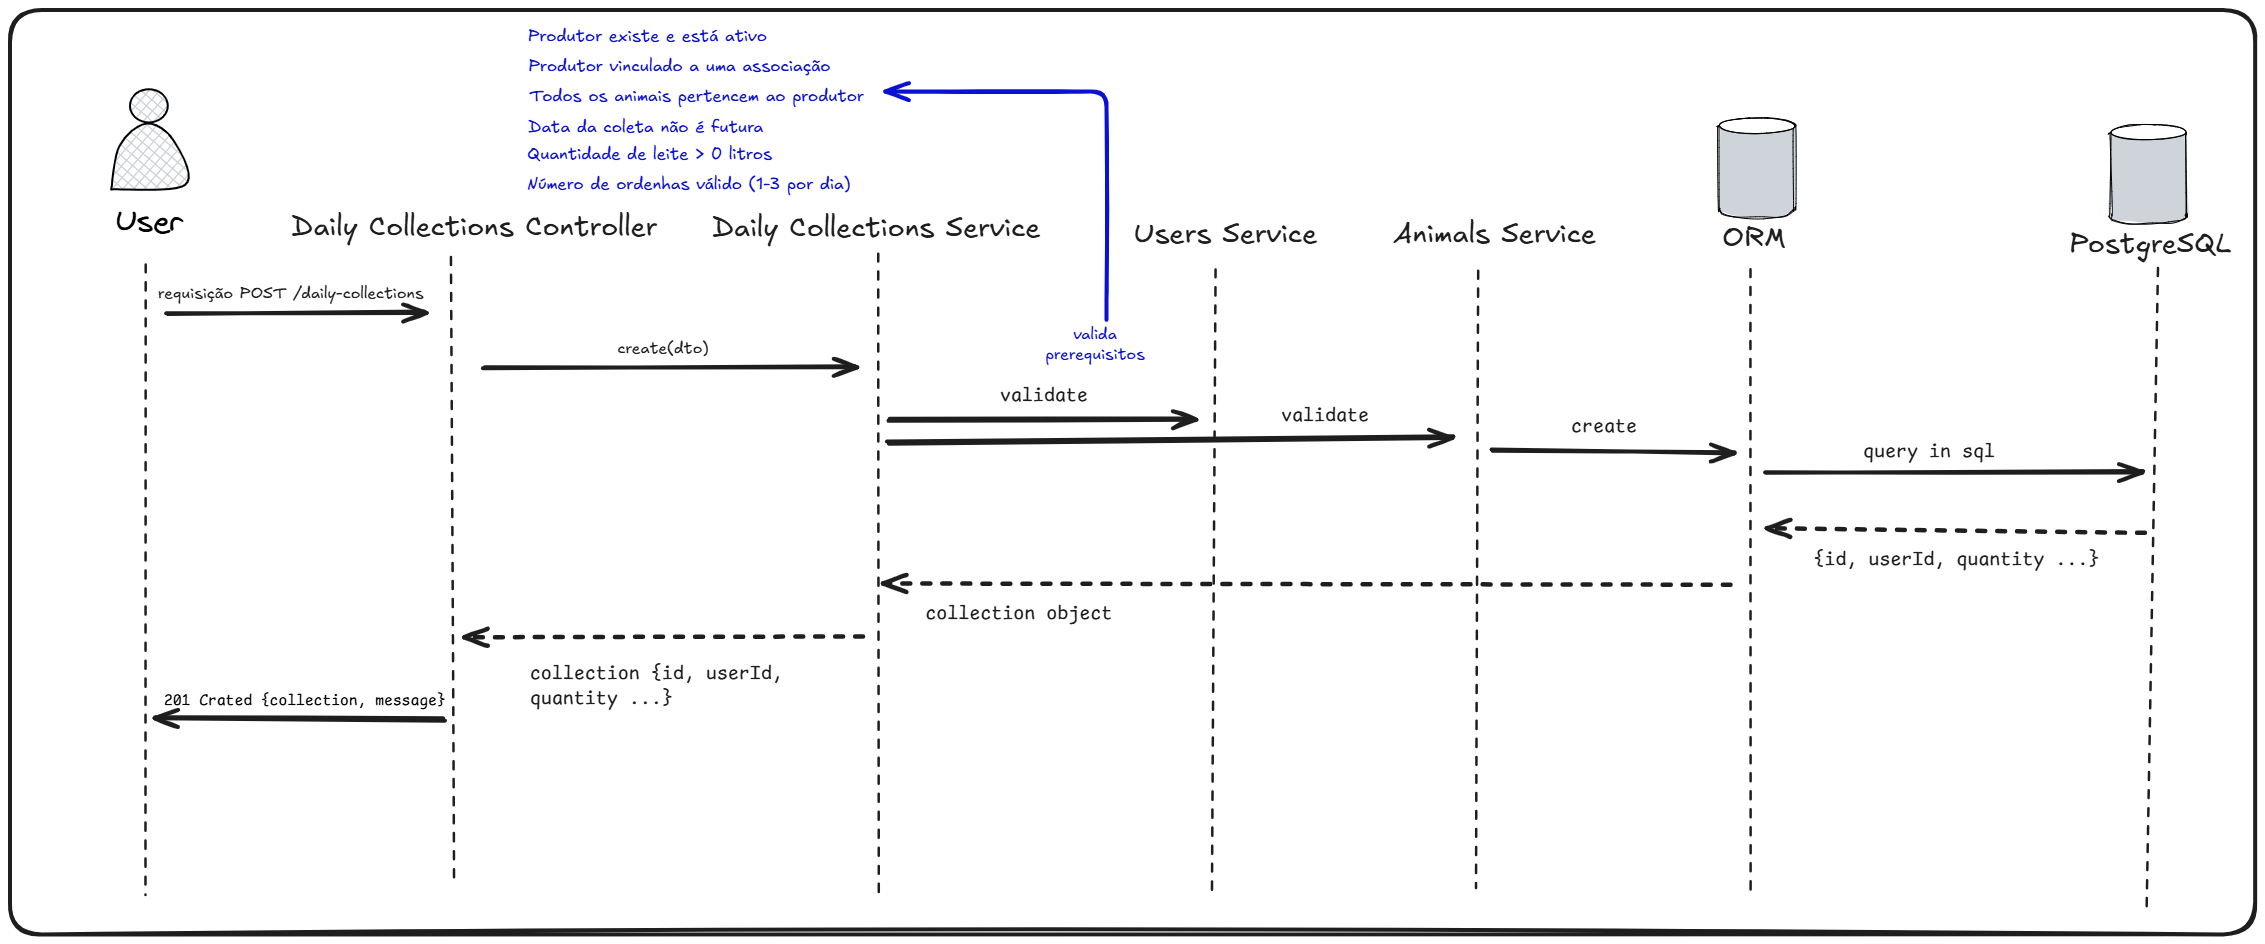
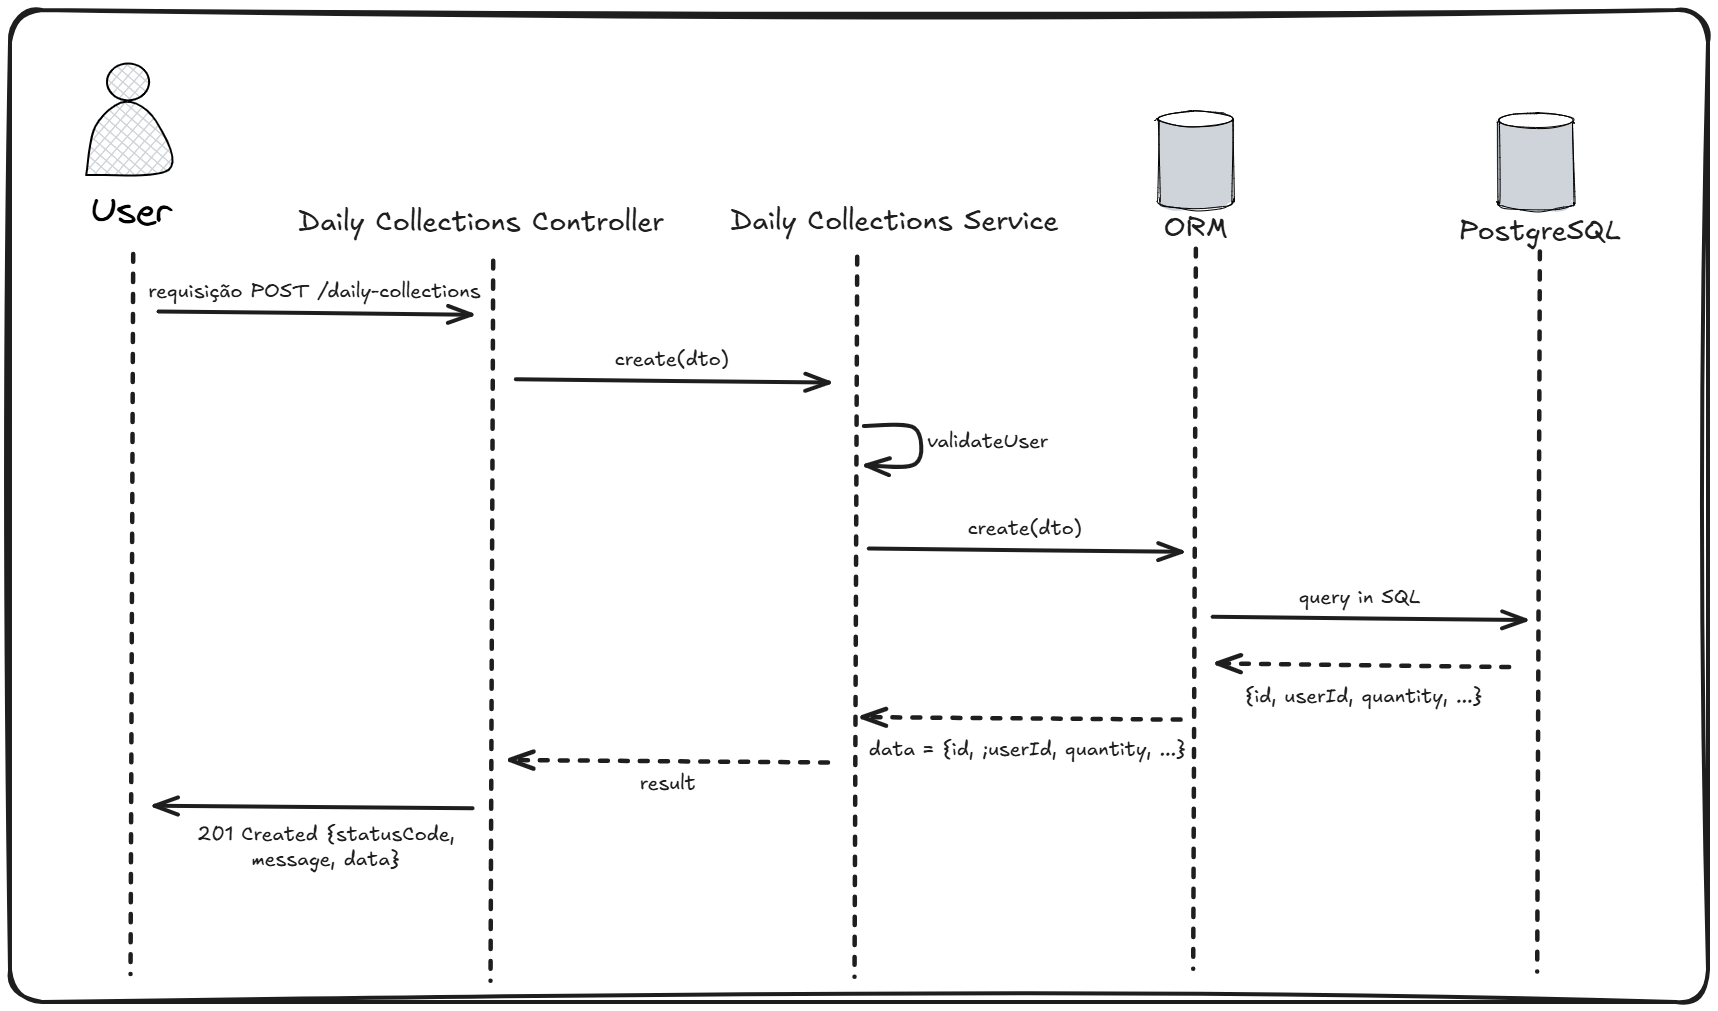
fix: atualização na cobertura de teste e remoção de metadata em auth.service

diff --git a/backend/tests/unit/application/services/auth.service.spec.ts b/backend/tests/unit/application/services/auth.service.spec.ts
@@ -270,77 +270,6 @@ describe('AuthService', () => {
       expect(diff).toBeGreaterThanOrEqual(14 * 60 * 1000); // At least 14 minutes
       expect(diff).toBeLessThanOrEqual(16 * 60 * 1000); // At most 16 minutes
     });
-
-    it('should include basic request metadata (IP) when request is provided', async () => {
-      const mockUser = createUser({ email: '[email redacted]' });
-      const mockRequest = {
-        headers: { 'user-agent': 'Mozilla/5.0 (Windows NT 10.0) Chrome/91.0' },
-        ip: '192.168.1.1',
-      };
-
-      prismaService.user.findUnique.mockResolvedValue(mockUser);
-      prismaService.user.update.mockResolvedValue(mockUser);
-      mailService.sendResetPasswordEmail.mockResolvedValue(undefined);
-
-      await service.forgotPassword('[email redacted]', mockRequest);
-
-      expect(mailService.sendResetPasswordEmail).toHaveBeenCalledWith(
-        '[email redacted]',
-        expect.any(String),
-        expect.any(String),
-        expect.objectContaining({
-          device: 'Não disponível', // Removido parse
-          browser: 'Não disponível', // Removido parse
-          ipAddress: '192.168.1.1', // Mantido
-        }),
-      );
-    });
-
-    // REMOVIDOS: Todos os testes "should detect..." (Windows, Linux, iOS, etc)
-
-    it('should extract IP from request.connection.remoteAddress if request.ip not available', async () => {
-      const mockUser = createUser({ email: '[email redacted]' });
-      const mockRequest = {
-        headers: { 'user-agent': 'Mozilla/5.0' },
-        connection: { remoteAddress: '10.0.0.5' },
-      };
-
-      prismaService.user.findUnique.mockResolvedValue(mockUser);
-      prismaService.user.update.mockResolvedValue(mockUser);
-      mailService.sendResetPasswordEmail.mockResolvedValue(undefined);
-
-      await service.forgotPassword('[email redacted]', mockRequest as any);
-
-      expect(mailService.sendResetPasswordEmail).toHaveBeenCalledWith(
-        expect.any(String),
-        expect.any(String),
-        expect.any(String),
-        expect.objectContaining({
-          ipAddress: '10.0.0.5',
-        }),
-      );
-    });
-
-    it('should use default metadata when request is not provided', async () => {
-      const mockUser = createUser({ email: '[email redacted]' });
-
-      prismaService.user.findUnique.mockResolvedValue(mockUser);
-      prismaService.user.update.mockResolvedValue(mockUser);
-      mailService.sendResetPasswordEmail.mockResolvedValue(undefined);
-
-      await service.forgotPassword('[email redacted]');
-
-      expect(mailService.sendResetPasswordEmail).toHaveBeenCalledWith(
-        expect.any(String),
-        expect.any(String),
-        expect.any(String),
-        expect.objectContaining({
-          device: 'Não disponível',
-          browser: 'Não disponível',
-          ipAddress: 'Não disponível',
-        }),
-      );
-    });
   });
 
   describe('validateResetToken', () => {

diff --git a/backend/src/auth/auth.service.ts b/backend/src/auth/auth.service.ts
@@ -83,25 +83,11 @@ export class AuthService {
         },
       });
 
-      const metadata = {
-        expiryDate: resetTokenExpiry,
-        device: 'Não disponível',
-        browser: 'Não disponível',
-        ipAddress: 'Não disponível',
-      };
-
-      // Apenas extrai o IP se o request existir, sem parsing complexo de User-Agent
-      if (request) {
-        const ip =
-          request.ip || request.connection.remoteAddress || 'Não disponível';
-        metadata.ipAddress = ip;
-      }
-
       await this.mailService.sendResetPasswordEmail(
         user.email,
         resetToken,
         user.name,
-        metadata,
+        { expiryDate: resetTokenExpiry },
       );
 
       this.logger.log(`Token de reset enviado para ${user.email}`);

diff --git a/arc42-PT.md b/arc42-PT.md
@@ -145,10 +145,10 @@ O **QuaLeiDer** é uma plataforma web para gestão de produtores de leite e suas
 
 - **Cobertura de Testes (Atual: 96.25%):**
 
-  - **Testes Unitários:** 472 testes cobrindo DTOs, Services, Controllers, Entities
+  - **Testes Unitários:** 450 testes cobrindo DTOs, Services, Controllers, Entities
     - DTOs: 100% de cobertura (validação de dados de entrada)
-    - Services (Application): 95%+ de cobertura (lógica de negócio)
-    - Controllers (Presentation): 97% de cobertura (endpoints HTTP)
+    - Services (Application): 100% de cobertura (lógica de negócio)
+    - Controllers (Presentation): 100% de cobertura (endpoints HTTP)
     - Entities (Domain): 100% de cobertura (regras de negócio)
   - **Testes E2E:** 110 testes integrando backend completo (API + Database)
     - 7 suítes de testes: Auth (24), Users (18), Animals (16), Daily Collections (14), Invites (17), Associations (21)
@@ -419,6 +419,7 @@ Content-Type: application/json
 - `401 Unauthorized`: Token JWT inválido/expirado
 - `403 Forbidden`: Usuário sem permissão
 - `404 Not Found`: Recurso inexistente
+- `409 Conflit`: Conflito
 - `500 Internal Server Error`: Erro não tratado
 
 ---
@@ -585,7 +586,6 @@ A arquitetura do QuaLeiDer foi projetada para balancear **simplicidade** (time p
 | ---------------- | ------------------------------------ | ----------------------------------------------------- |
 | **Equipe**       | 1-2 desenvolvedores conseguem manter | Exige time de 5+ pessoas                              |
 | **Complexidade** | Deploy único, logs centralizados     | Requer orquestração (Kubernetes), tracing distribuído |
-| **Custo**        | 1 container ($5/mês no Render)       | Mínimo 3 serviços ($15/mês)                           |
 | **Latência**     | Chamadas de função (nanossegundos)   | Chamadas HTTP entre serviços (milissegundos)          |
 | **Transações**   | ACID nativo do PostgreSQL            | Saga Pattern ou 2PC (complexo)                        |
 
@@ -1064,188 +1064,24 @@ O token é validado automaticamente pelo `JwtAuthGuard` em endpoints protegidos 
 ![Registro de Coleta Diária](images/daily-collection-flow.png)
 
 ### Descrição do Fluxo
-
-Este diagrama ilustra o processo completo de registro de uma coleta diária de leite, incluindo todas as validações de negócio necessárias antes da persistência.
+Este documento descreve o processo técnico de registro de uma coleta diária de leite
 
 **Atores e Componentes:**
 
 - **User (Produtor)**: Produtor de leite registrando a coleta diária
 - **DailyCollectionsController**: Camada de apresentação (HTTP)
 - **DailyCollectionsService**: Camada de aplicação com lógica de negócio e validações
-- **UsersService**: Serviço de validação de produtores
-- **AnimalsService**: Serviço de validação de animais
 - **ORM (Prisma)**: Camada de acesso a dados (PostgreSQL)
 - **PostgreSQL**: Banco de dados relacional
 
 **Etapas do Fluxo:**
 
 1. **Requisição HTTP**: Produtor envia `POST /daily-collections` com dados da coleta
-2. **Validações de Pré-requisitos** (6 validações executadas):
-   - ✓ **Produtor existe e está ativo** (consulta UsersService)
-   - ✓ **Produtor vinculado a uma associação** (valida `associationId`)
-   - ✓ **Animais pertencem ao produtor** (consulta AnimalsService)
-   - ✓ **Data da coleta não é futura** (validação de negócio)
-   - ✓ **Quantidade de leite > 0 litros** (validação de negócio)
-   - ✓ **Número de ordenhas válido** (1-3 por dia)
-3. **Criação Atômica**: Transação que cria registro de coleta + relacionamentos N-to-N com animais
-4. **Persistência**: 2 operações SQL executadas em transação:
+2. **Validações de Pré-requisitos**:
+   - ✓ **Produtor existe e está ativo** 
+3. **Persistência**: 2 operações SQL executadas em transação:
    - `INSERT INTO "DailyCollection"` (coleta principal)
-   - `INSERT INTO "_AnimalToDailyCollection"` (relacionamento Many-to-Many)
-5. **Resposta HTTP**: Retorna `201 Created` com dados da coleta e lista de animais
-
-### Validações de Negócio
-
-**Validações Executadas (DailyCollectionsService):**
-
-```
-┌─────────────────────────────────────────────┐
-│ VALIDAÇÕES DE PRÉ-REQUISITOS (6 checks)    │
-├─────────────────────────────────────────────┤
-│ 1. ✓ Produtor existe e está ativo          │
-│ 2. ✓ Produtor vinculado a uma associação   │
-│ 3. ✓ Todos animais pertencem ao produtor   │
-│ 4. ✓ Data da coleta não é futura           │
-│ 5. ✓ Quantidade de leite > 0 litros        │
-│ 6. ✓ Número de ordenhas válido (1-3/dia)   │
-└─────────────────────────────────────────────┘
-```
-
-**Código de Validação:**
-
-```typescript
-// DailyCollectionsService.create()
-
-const user = await this.usersService.findById(dto.userId);
-if (!user) {
-  throw new NotFoundException("Produtor não encontrado");
-}
-
-if (!user.associationId) {
-  throw new BadRequestException(
-    "Produtor deve estar vinculado a uma associação"
-  );
-}
-
-const animals = await this.animalsService.findMany({
-  where: {
-    id: { in: dto.animalIds },
-    userId: dto.userId,
-  },
-});
-
-if (animals.length !== dto.animalIds.length) {
-  throw new BadRequestException(
-    "Alguns animais não pertencem ao produtor ou não existem"
-  );
-}
-
-if (new Date(dto.date) > new Date()) {
-  throw new BadRequestException("Data não pode ser futura");
-}
-
-if (dto.quantity <= 0) {
-  throw new BadRequestException("Quantidade deve ser maior que zero");
-}
-
-if (dto.milkingCount < 1 || dto.milkingCount > 3) {
-  throw new BadRequestException("Número de ordenhas deve ser entre 1 e 3");
-}
-```
-
-### Relacionamento Many-to-Many
-
-**Tabela de Junção:**
-
-O sistema utiliza relacionamento Many-to-Many entre `Animal` e `DailyCollection`, permitindo rastrear quais animais contribuíram para cada coleta:
-
-```sql
-CREATE TABLE "_AnimalToDailyCollection" (
-  "A" INTEGER NOT NULL REFERENCES "Animal"("id"),
-  "B" INTEGER NOT NULL REFERENCES "DailyCollection"("id"),
-  PRIMARY KEY ("A", "B")
-);
-```
-
-**Criação Atômica:**
-
-```typescript
-const collection = await this.prisma.dailyCollection.create({
-  data: {
-    userId: dto.userId,
-    date: dto.date,
-    quantity: dto.quantity,
-    milkingCount: dto.milkingCount,
-    hasTechnicalAssistance: dto.hasTechnicalAssistance,
-    feed: dto.feed,
-    milkingLocation: dto.milkingLocation,
-    animals: {
-      connect: dto.animalIds.map((id) => ({ id })),
-    },
-  },
-  include: {
-    animals: true,
-  },
-});
-```
-
-### Dados Técnicos Coletados
-
-| Campo                      | Tipo    | Descrição                                      | Exemplo           |
-| -------------------------- | ------- | ---------------------------------------------- | ----------------- |
-| **quantity**               | Float   | Quantidade de leite em litros                  | 45.5              |
-| **milkingCount**           | Integer | Número de ordenhas realizadas (1-3)            | 2                 |
-| **hasTechnicalAssistance** | Boolean | Se recebeu assistência técnica                 | true              |
-| **feed**                   | String  | Tipo de alimentação fornecida                  | "Silagem + Ração" |
-| **milkingLocation**        | String  | Local onde a ordenha foi realizada             | "Sala de Ordenha" |
-| **date**                   | Date    | Data da coleta (não pode ser futura)           | "2025-11-16"      |
-| **animals**                | Array   | IDs dos animais que contribuíram para a coleta | [1, 2, 3]         |
-
-### Cenários de Erro
-
-**1. Produtor Não Encontrado:**
-
-```
-POST /daily-collections {userId: 999, ...}
-→ UsersService.findById(999) retorna null
-→ throw NotFoundException("Produtor não encontrado")
-→ Response: 404 Not Found
-```
-
-**2. Produtor Sem Associação:**
-
-```
-POST /daily-collections {userId: 1, ...}
-→ user.associationId === null
-→ throw BadRequestException("Produtor deve estar vinculado a uma associação")
-→ Response: 400 Bad Request
-```
-
-**3. Animais Não Pertencem ao Produtor:**
-
-```
-POST /daily-collections {userId: 1, animalIds: [1, 2, 999], ...}
-→ AnimalsService retorna apenas 2 animais (esperado: 3)
-→ throw BadRequestException("Alguns animais não pertencem ao produtor")
-→ Response: 400 Bad Request
-```
-
-**4. Data Futura:**
-
-```
-POST /daily-collections {date: "2025-12-31", ...}
-→ new Date(dto.date) > new Date()
-→ throw BadRequestException("Data não pode ser futura")
-→ Response: 400 Bad Request
-```
-
-**5. Quantidade Inválida:**
-
-```
-POST /daily-collections {quantity: -10, ...}
-→ dto.quantity <= 0
-→ throw BadRequestException("Quantidade deve ser maior que zero")
-→ Response: 400 Bad Request
-```
+4. **Resposta HTTP**: Retorna `201 Created` com dados da coleta
 
 ### Características de Qualidade
 
@@ -1262,13 +1098,12 @@ POST /daily-collections {quantity: -10, ...}
 
 - **Rastreabilidade**:
 
-  - Relacionamento N-to-N permite saber quais animais contribuíram
   - Histórico completo de coletas por produtor
-  - Dados técnicos para análise de produtividade
+  - Dados técnicos para análise de produtividade (TO DO)
 
 - **Validação Rigorosa**:
-  - 6 validações de negócio antes de persistir
-  - Garante integridade referencial (produtor, animais, associação)
+  - validações de negócio antes de persistir
+  - Garante integridade referencial 
   - Previne dados inconsistentes no banco
 
 # Visão de Implantação {#section-deployment-view}
@@ -1372,15 +1207,15 @@ O princípio de Separation of Concerns divide responsabilidades em camadas disti
 
 ```
 tests/
-├── unit/                          # Testes unitários (472 testes)
+├── unit/                          # Testes unitários (450 testes)
 │   ├── application/
 │   │   ├── dtos/                 # Validação de DTOs (100% cobertura)
-│   │   └── services/             # Lógica de negócio (95%+ cobertura)
+│   │   └── services/             # Lógica de negócio (100%+ cobertura)
 │   ├── domain/
 │   │   ├── entities/             # Regras de domínio (100% cobertura)
 │   │   └── enums/
 │   └── presentation/
-│       └── controllers/          # Endpoints HTTP (97% cobertura)
+│       └── controllers/          # Endpoints HTTP (100% cobertura)
 ├── e2e/                           # Testes end-to-end (110 testes)
 │   ├── auth/                     # Login, Reset de Senha (24 testes)
 │   ├── users/                    # CRUD de Usuários (18 testes)
@@ -1461,9 +1296,9 @@ describe('E2E: Animais - Operações CRUD', () => {
 | --------------------- | ------ | ------ | ------ |
 | Cobertura Geral       | > 80%  | 96.25% | ✅     |
 | Cobertura DTOs        | 100%   | 100%   | ✅     |
-| Cobertura Services    | > 90%  | 95%+   | ✅     |
-| Cobertura Controllers | > 90%  | 97%    | ✅     |
-| Testes Unitários      | > 300  | 472    | ✅     |
+| Cobertura Services    | > 90%  | 100%+   | ✅     |
+| Cobertura Controllers | > 90%  | 100%    | ✅     |
+| Testes Unitários      | > 300  | 453    | ✅     |
 | Testes E2E            | > 80   | 110    | ✅     |
 | Tempo Exec. Unit      | < 60s  | 50s    | ✅     |
 | Tempo Exec. E2E       | < 120s | 90s    | ✅     |
@@ -1688,7 +1523,6 @@ enum UserRole {
 
 - Produtor pode cadastrar múltiplos animais
 - Animal inativo não pode participar de coletas
-- Data de nascimento não pode ser futura
 - Nome deve ser único por produtor (soft constraint)
 
 **Exemplo de Código (Prisma Schema):**